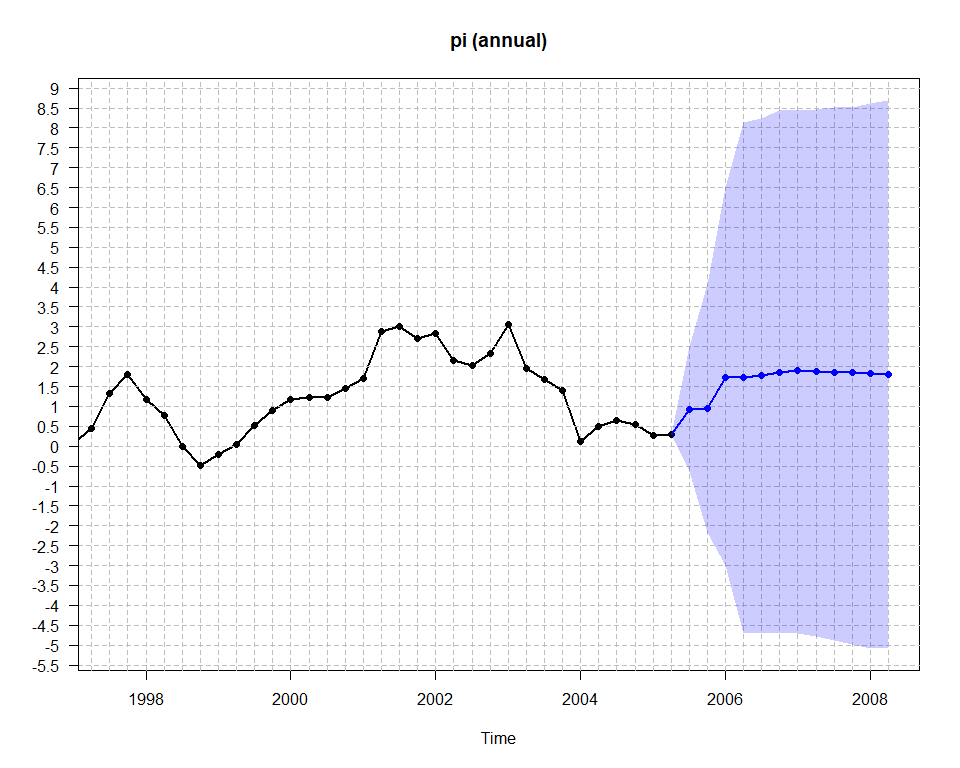
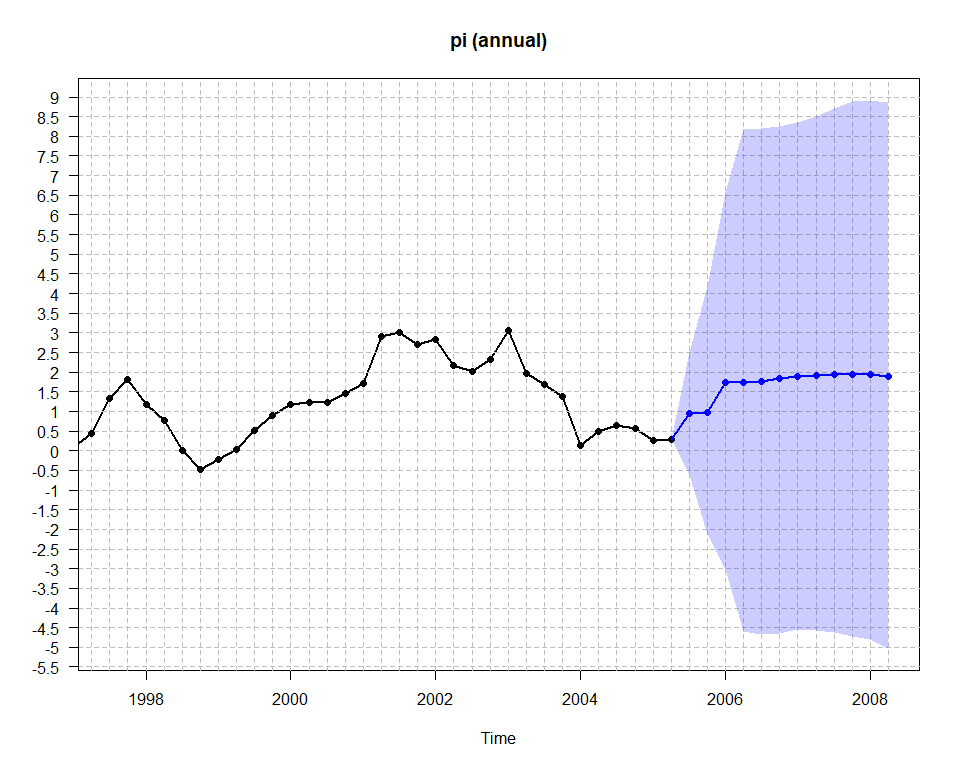
readme

diff --git a/README.md b/README.md
@@ -140,11 +140,18 @@ cross-equation tightness $\pi_2$ and lag decay rate $\pi_3$.
 ``` r
 rm(list = ls())
 library(Karlsson2013inR)
+#> Loading required package: MASS
+#> Loading required package: LaplacesDemon
 
 data("villani2009")
 yt <- villani2009
 yt <- ts(yt[1:102, ], start = start(yt), frequency = frequency(yt))
 plot.ts(yt)
+```
+
+<img src="man/figures/README-unnamed-chunk-3-1.png" width="100%" />
+
+``` r
 
 bvar_obj <- bvar(data = yt)
 
@@ -245,3 +252,5 @@ fcst <- forecast(bvar_obj,
                  growth_rate_idx = c(4,5),
                  plot_idx = c(4,5,6))
 ```
+
+<img src="man/figures/README-unnamed-chunk-3-2.png" width="100%" /><img src="man/figures/README-unnamed-chunk-3-3.png" width="100%" /><img src="man/figures/README-unnamed-chunk-3-4.png" width="100%" />